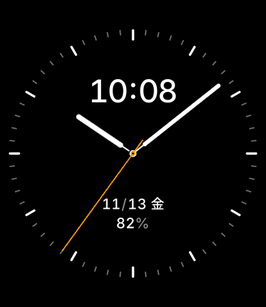
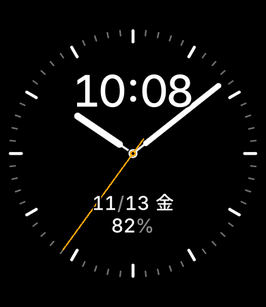
feat(watchface): 文字と針・目盛りを大きくして実機で読みやすくする
2.0.1を実機で確認したところ、全体、特に文字が小さく読みにくかった。
文字盤は画面幅いっぱいでこれ以上広げられないため、その内側の要素を拡大する。
デジタル時刻を46pxから64px、日付・電池残量を21pxから28pxにし、
針・中心キャップ・目盛りも太く長くして文字との釣り合いを保つ。

全画像の寸法が変わり、2.0.1と同じパスでは旧版の寸法が使われるため、
画像をassets/bip6/r2/へ移してsrc/index.jsのassetで参照する。
今後も寸法の変更時に機械的に新しいパスを用意できるよう、
AGENTS.mdの規則をディレクトリ番号を上げる方式に改める。
実機には2.0.1（code 14）が入っているため、2.0.2（code 15）とする。

diff --git a/watchface/src/index.js b/watchface/src/index.js
@@ -1,5 +1,7 @@
+// 端末は更新後も同じパスの画像に旧版の幅・高さを使う。画像の寸法を変えたら r3 のように新しいディレクトリへ移す。
+const asset = 'r2';
 const sequence = (dir, count) =>
-  Array.from({ length: count }, (_, i) => `${dir}/${i}.png`);
+  Array.from({ length: count }, (_, i) => `${asset}/${dir}/${i}.png`);
 const digits = sequence('time', 10);
 const small = sequence('info', 10);
 const weekdays = sequence('week', 7);
@@ -26,44 +28,44 @@ WatchFace({
       show_level: normal
     });
 
-    image('dial/left.png', 12, 102);
-    image('dial/top.png', 72, 42);
-    image('dial/bottom.png', 72, 354);
-    image('dial/right.png', 324, 102);
+    image(`${asset}/dial/left.png`, 12, 102);
+    image(`${asset}/dial/top.png`, 72, 42);
+    image(`${asset}/dial/bottom.png`, 72, 353);
+    image(`${asset}/dial/right.png`, 323, 102);
 
     // 後に作ったウィジェットが前面に描かれる。文字盤内の文字を針で隠さないよう、針を先に作る。
     ui.createWidget(widget.TIME_POINTER, {
       hour_centerX: 195,
       hour_centerY: 225,
-      hour_posX: 6,
-      hour_posY: 102,
-      hour_path: 'hand/hour.png',
+      hour_posX: 8,
+      hour_posY: 106,
+      hour_path: `${asset}/hand/hour.png`,
       minute_centerX: 195,
       minute_centerY: 225,
-      minute_posX: 8,
-      minute_posY: 166,
-      minute_path: 'hand/minute.png',
+      minute_posX: 9,
+      minute_posY: 167,
+      minute_path: `${asset}/hand/minute.png`,
       second_centerX: 195,
       second_centerY: 225,
-      second_posX: 6,
-      second_posY: 178,
-      second_path: 'hand/second.png',
+      second_posX: 7,
+      second_posY: 176,
+      second_path: `${asset}/hand/second.png`,
       show_level: normal
     });
 
     ui.createWidget(widget.IMG_TIME, {
-      hour_startX: 131,
-      hour_startY: 113,
+      hour_startX: 108,
+      hour_startY: 106,
       hour_array: digits,
       hour_zero: 1,
       hour_space: 0,
       hour_follow: 0,
       hour_align: left,
-      hour_unit_en: 'time/colon.png',
-      hour_unit_sc: 'time/colon.png',
-      hour_unit_tc: 'time/colon.png',
-      minute_startX: 204,
-      minute_startY: 113,
+      hour_unit_en: `${asset}/time/colon.png`,
+      hour_unit_sc: `${asset}/time/colon.png`,
+      hour_unit_tc: `${asset}/time/colon.png`,
+      minute_startX: 207,
+      minute_startY: 106,
       minute_array: digits,
       minute_zero: 1,
       minute_space: 0,
@@ -73,20 +75,20 @@ WatchFace({
     });
 
     ui.createWidget(widget.IMG_DATE, {
-      month_startX: 149,
-      month_startY: 288,
+      month_startX: 135,
+      month_startY: 284,
       month_zero: 1,
       month_space: 0,
       month_align: left,
       month_follow: 0,
-      month_unit_en: 'info/slash.png',
-      month_unit_sc: 'info/slash.png',
-      month_unit_tc: 'info/slash.png',
+      month_unit_en: `${asset}/info/slash.png`,
+      month_unit_sc: `${asset}/info/slash.png`,
+      month_unit_tc: `${asset}/info/slash.png`,
       month_sc_array: small,
       month_tc_array: small,
       month_en_array: small,
-      day_startX: 187,
-      day_startY: 288,
+      day_startX: 183,
+      day_startY: 284,
       day_zero: 1,
       day_space: 0,
       day_align: left,
@@ -98,8 +100,8 @@ WatchFace({
     });
 
     ui.createWidget(widget.IMG_WEEK, {
-      x: 220,
-      y: 286,
+      x: 227,
+      y: 281,
       week_en: weekdays,
       week_sc: weekdays,
       week_tc: weekdays,
@@ -108,16 +110,16 @@ WatchFace({
 
     ui.createWidget(widget.TEXT_IMG, {
       x: 145,
-      y: 316,
+      y: 317,
       w: 100,
-      h: 22,
+      h: 27,
       type: ui.data_type.BATTERY,
       font_array: small,
       h_space: 0,
       align_h: ui.align.CENTER_H,
-      unit_en: 'info/percent.png',
-      unit_sc: 'info/percent.png',
-      unit_tc: 'info/percent.png',
+      unit_en: `${asset}/info/percent.png`,
+      unit_sc: `${asset}/info/percent.png`,
+      unit_tc: `${asset}/info/percent.png`,
       show_level: normal
     });
   }

diff --git a/AGENTS.md b/AGENTS.md
@@ -9,7 +9,8 @@
 
 ## 画像の差し替え
 
-- 寸法を変えた画像は、過去の版で使ったことのないパスに置く。
+- 画像は `watchface/assets/bip6/r<番号>/` に置き、`src/index.js` の `asset` で参照する。
+  寸法を変えた画像があれば、番号を上げた新しいディレクトリへ全画像を移す。
   Bip 6は更新後も同じパスの画像に旧版の幅・高さを使い、数字の送り幅や表示範囲がずれる。
 
 ## 作業別の手順

diff --git a/packaging/README.md b/packaging/README.md
@@ -1,4 +1,4 @@
-# LUMEN ORBIT 2.0.1 — 配布用ZPKの作成
+# LUMEN ORBIT 2.0.2 — 配布用ZPKの作成
 
 標準ビルドの `.zab` / `.zpk` に元PNGの色・透明度を反映し、検証・圧縮した配布用ZPKを作成する。
 [uv](https://docs.astral.sh/uv/getting-started/installation/) が必要。

diff --git a/README.md b/README.md
@@ -1,6 +1,6 @@
 # LUMEN ORBIT
 
-Amazfit Bip 6用watchface **2.0.1**。
+Amazfit Bip 6用watchface **2.0.2**。
 アナログ時計に、デジタル時刻・日付・日本語の曜日・電池残量を組み合わせる。
 
 ![LUMEN ORBITの表示例](watchface/assets/bip6/preview.png)

diff --git a/watchface/README.md b/watchface/README.md
@@ -1,4 +1,4 @@
-# LUMEN ORBIT 2.0.1 — 再ビルド
+# LUMEN ORBIT 2.0.2 — 再ビルド
 
 Node.js・npm・インターネット接続が必要。
 ビルドツールは `package-lock.json` で固定している（Zeus CLI 1.9.3）。
